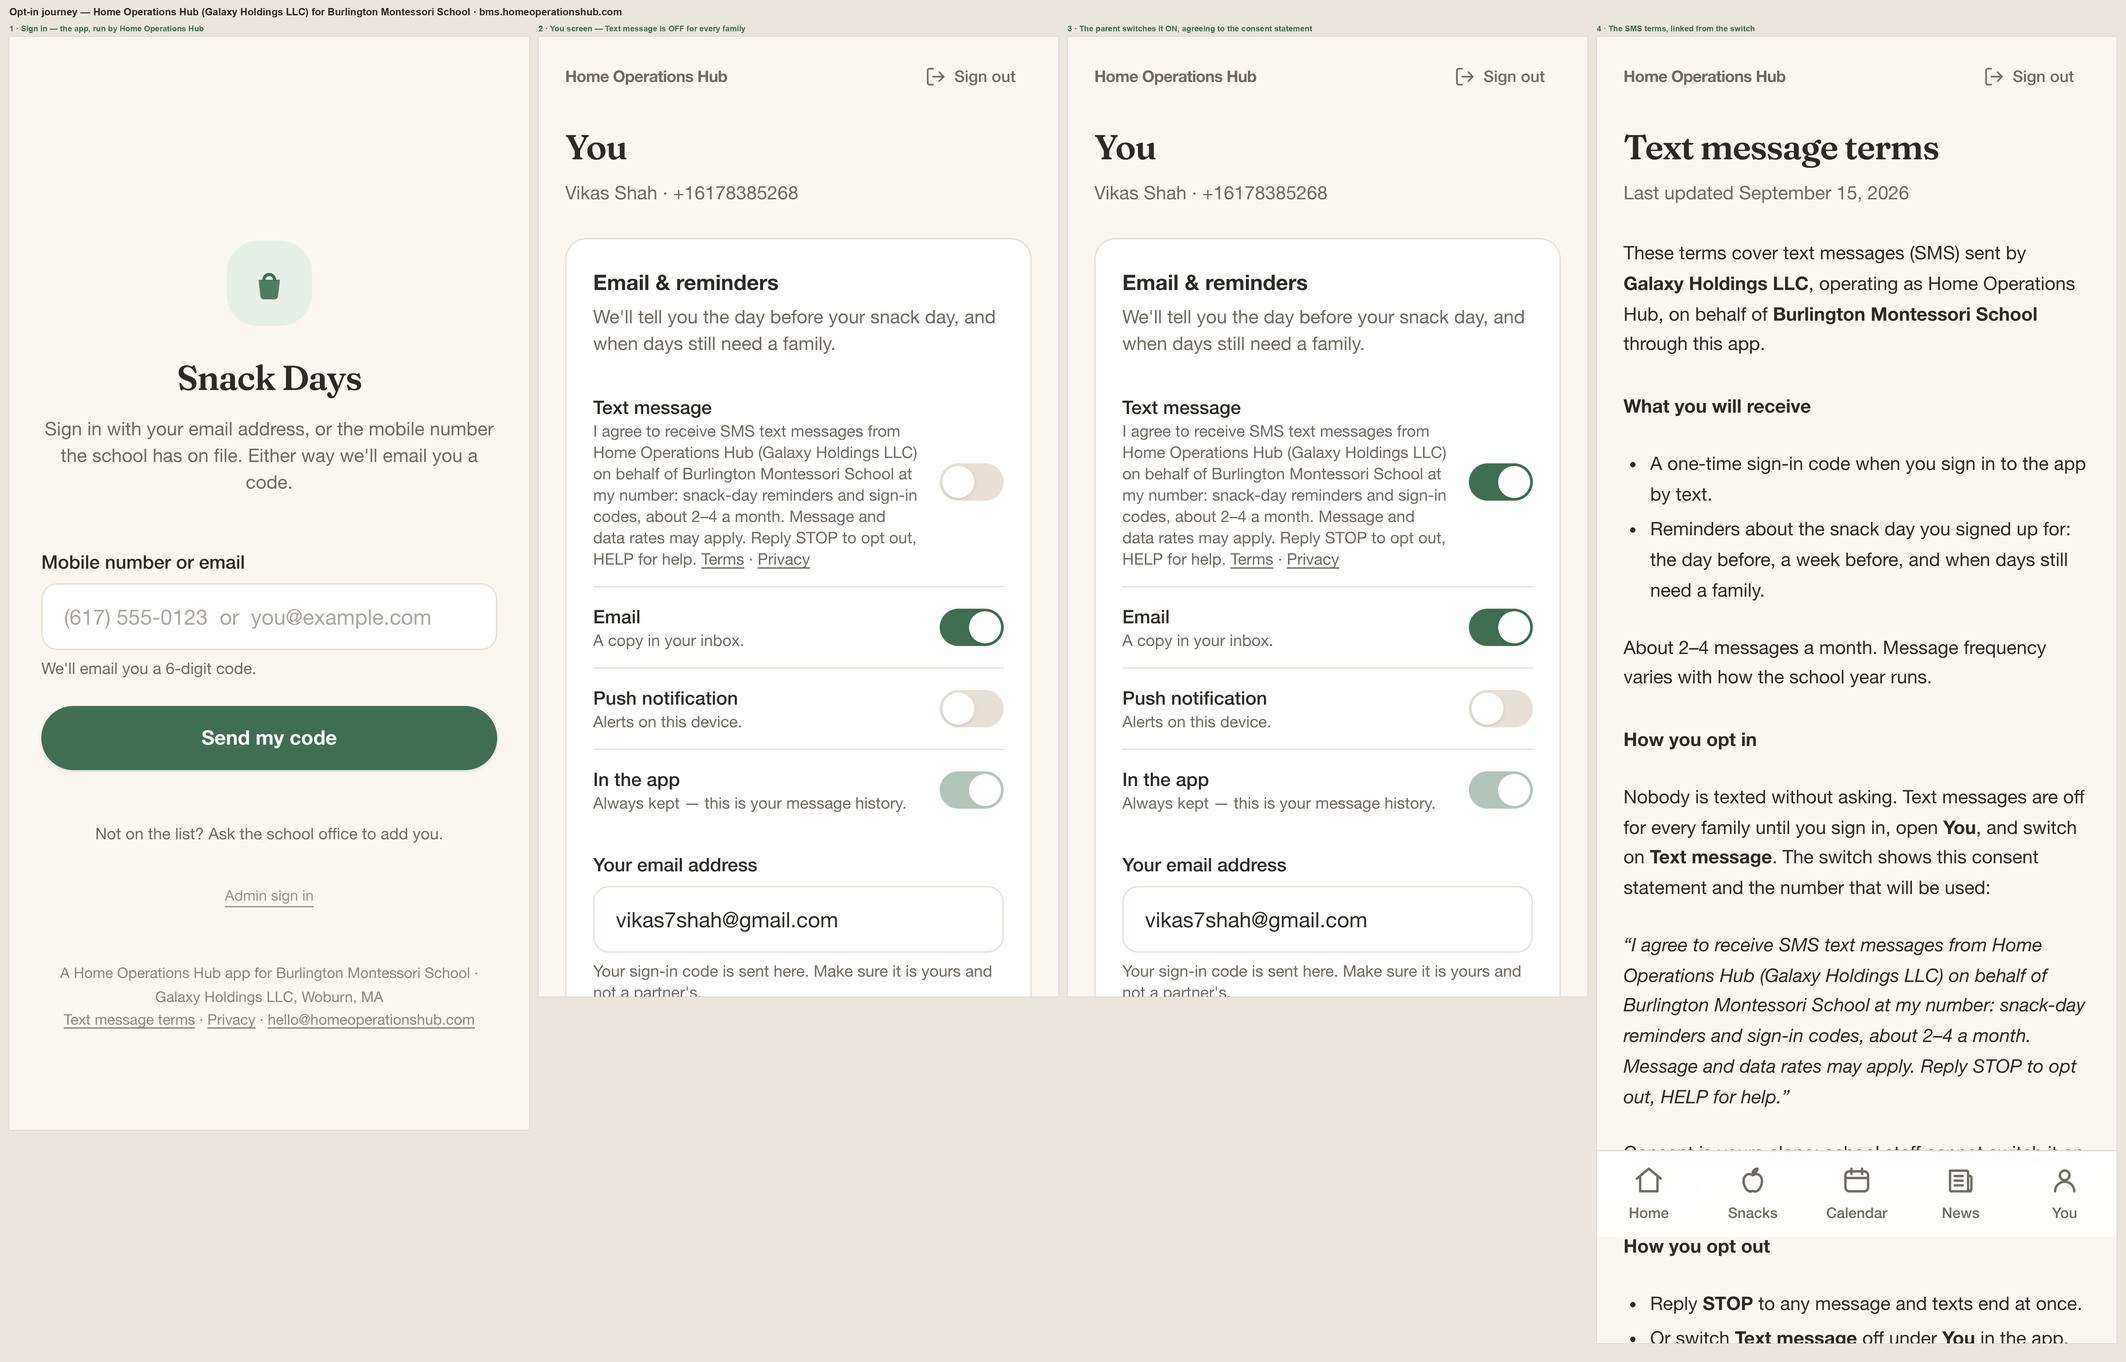
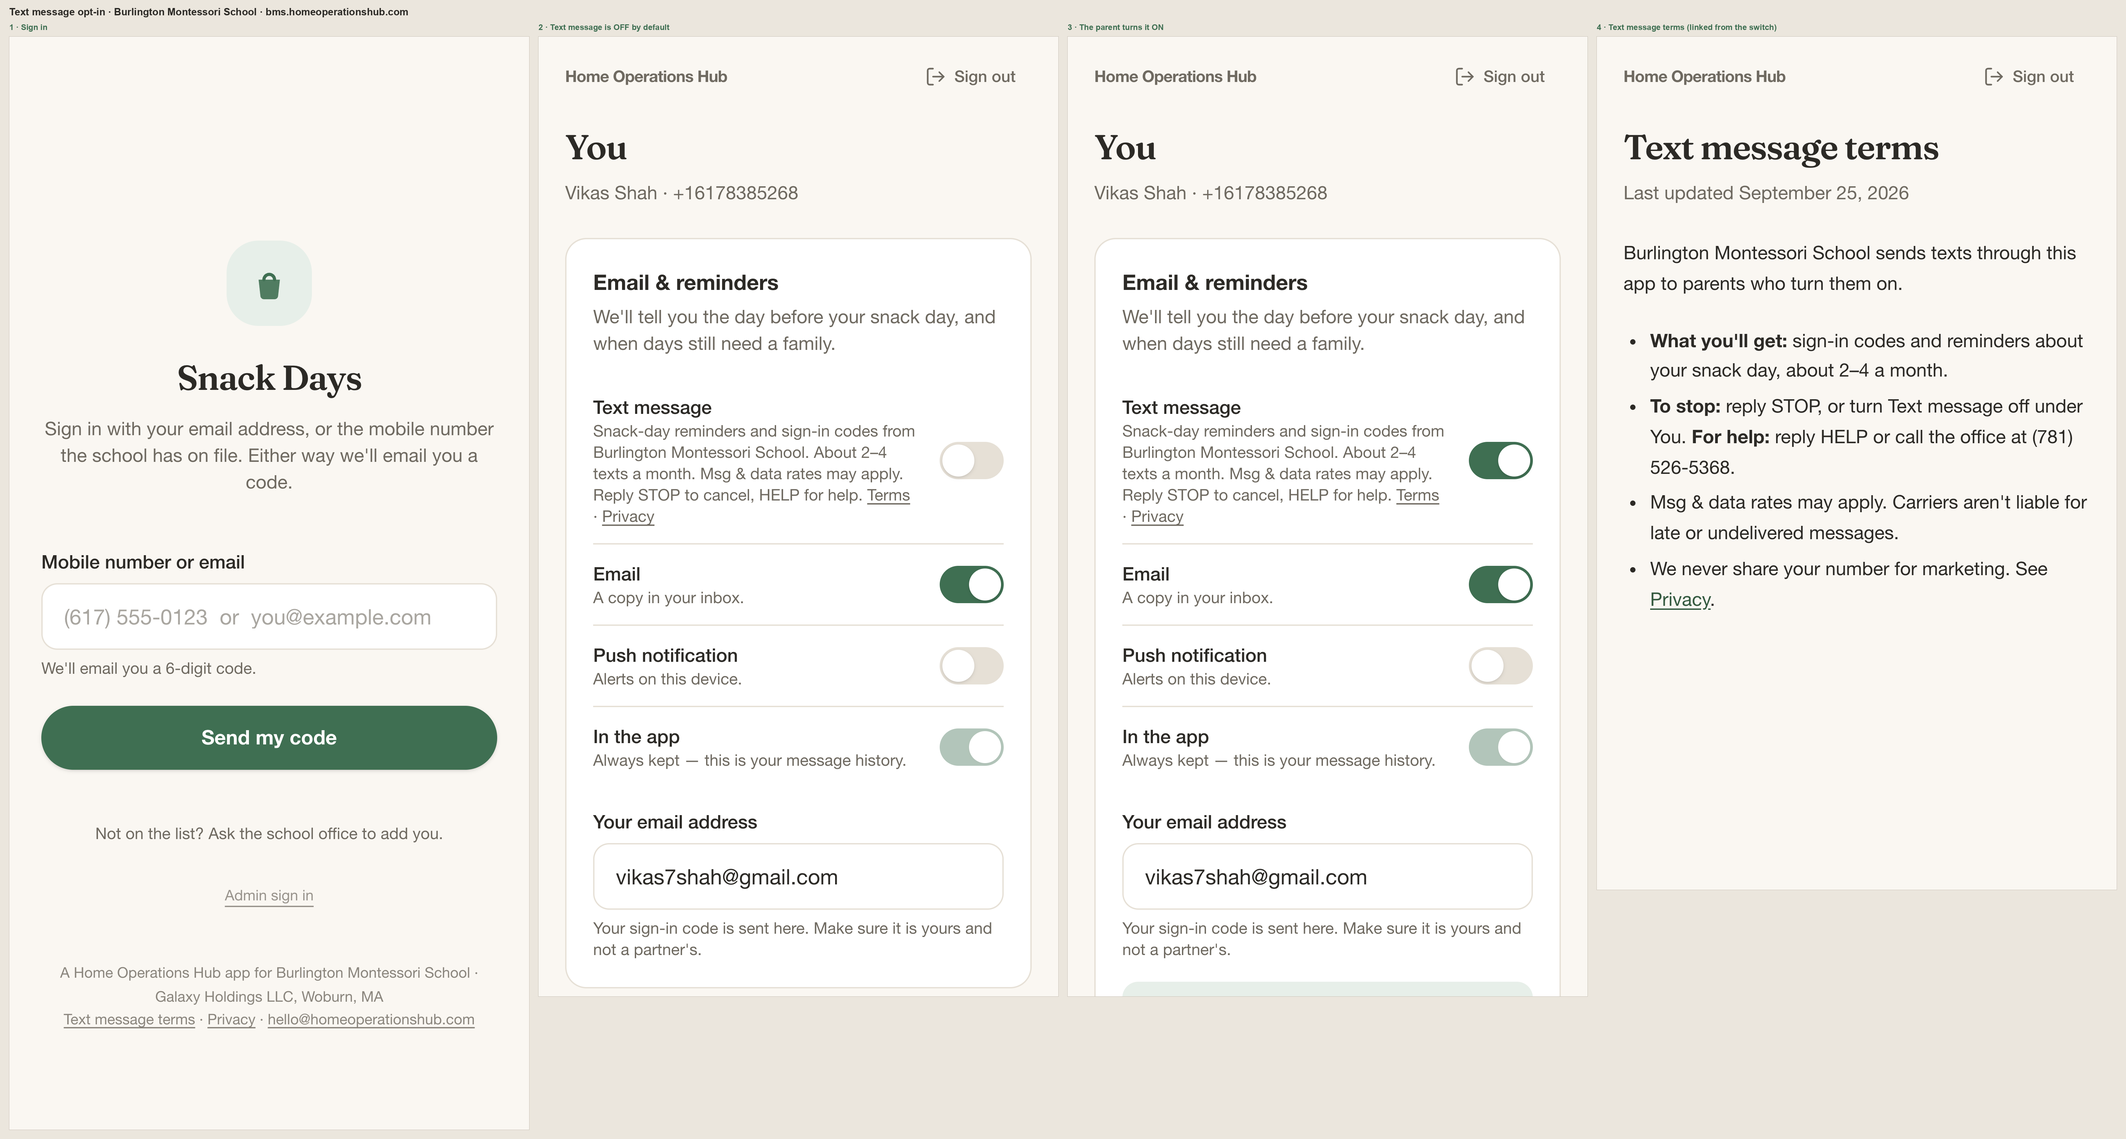
Short, plain SMS consent, terms and privacy

diff --git a/apps/web/app/privacy/page.tsx b/apps/web/app/privacy/page.tsx
@@ -2,62 +2,14 @@ import { LegalPage } from '@/components/legal-page';
 
 export default function PrivacyPage() {
   return (
-    <LegalPage title="Privacy policy" updated="September 15, 2026">
-      <p>
-        This app is run by <strong>Galaxy Holdings LLC</strong>, operating as Home Operations Hub, for
-        <strong> Burlington Montessori School</strong>. It exists to organise snack days and share school
-        news with the families of enrolled children. This policy says what we hold, why, and who sees it.
-      </p>
-
-      <h2>What we hold</h2>
+    <LegalPage title="Privacy" updated="September 25, 2026">
+      <p>This app is provided by Burlington Montessori School for its families.</p>
       <ul>
-        <li>Your name, the mobile number and email address the school holds for you, and which of your children is in which classroom — provided by the school office from its roster.</li>
-        <li>The snack days you sign up for, and the reminders and confirmations we sent you.</li>
-        <li>Your notification preferences: whether you want email, text messages, or push notifications.</li>
-        <li>Sign-in records: when you last signed in, and short-lived codes used to sign you in.</li>
+        <li><strong>What we keep:</strong> your name, the phone and email the school has for you, your children&apos;s classrooms, and the snack days you sign up for.</li>
+        <li><strong>What it&apos;s for:</strong> running the snack calendar and sending the reminders and codes you choose.</li>
+        <li>We don&apos;t sell or share your information, and we never share phone numbers or text consent with anyone for marketing.</li>
+        <li>Questions or corrections: ask the school office.</li>
       </ul>
-
-      <h2>What we use it for</h2>
-      <ul>
-        <li>Showing you the snack calendar and your family's days.</li>
-        <li>Sending sign-in codes and snack-day reminders by the channels you have switched on.</li>
-        <li>Showing the school office which days still need a family.</li>
-      </ul>
-      <p>Nothing else. We do not advertise, profile, or sell or share your information for marketing.</p>
-
-      <h2>Text messages</h2>
-      <p>
-        Text messages are off until you switch them on under <strong>You</strong>. When you do, your mobile number
-        is used only to send the messages described in the <a href="/sms-terms/">text message terms</a>. Mobile
-        information is never shared with third parties or affiliates for marketing or promotional purposes.
-        Reply STOP to opt out at any time.
-      </p>
-
-      <h2>Who can see it</h2>
-      <ul>
-        <li>You see your own family's details and days. Other families see the child's first name on days that are taken, not contact details.</li>
-        <li>School staff see the roster and the calendar for their school.</li>
-        <li>Service providers that carry the app and its messages — Amazon Web Services for hosting, email and text delivery — process data on our behalf and under our instructions.</li>
-      </ul>
-
-      <h2>How long we keep it</h2>
-      <p>
-        While your child is enrolled and you are on the school's roster. When the office removes a family from the
-        app, the account, its sign-in, and its bookings are deleted. Message history is kept for the school year.
-      </p>
-
-      <h2>Your choices</h2>
-      <ul>
-        <li>Change your email address and notification channels under <strong>You</strong>.</li>
-        <li>Ask the school office to correct your details or remove your family from the app.</li>
-        <li>Email us at <a href="mailto:hello@homeoperationshub.com">hello@homeoperationshub.com</a> with any question about your data.</li>
-      </ul>
-
-      <h2>Contact</h2>
-      <p>
-        Galaxy Holdings LLC · 1 Alan R Gerrish Dr, Unit 1, Woburn, MA 01801 ·{' '}
-        <a href="mailto:hello@homeoperationshub.com">hello@homeoperationshub.com</a>
-      </p>
     </LegalPage>
   );
 }

diff --git a/apps/web/app/sms-terms/page.tsx b/apps/web/app/sms-terms/page.tsx
@@ -2,57 +2,14 @@ import { LegalPage } from '@/components/legal-page';
 
 export default function SmsTermsPage() {
   return (
-    <LegalPage title="Text message terms" updated="September 15, 2026">
-      <p>
-        These terms cover text messages (SMS) sent by <strong>Galaxy Holdings LLC</strong>, operating as
-        Home Operations Hub, on behalf of <strong>Burlington Montessori School</strong> through this app.
-      </p>
-
-      <h2>What you will receive</h2>
+    <LegalPage title="Text message terms" updated="September 25, 2026">
+      <p>Burlington Montessori School sends texts through this app to parents who turn them on.</p>
       <ul>
-        <li>A one-time sign-in code when you sign in to the app by text.</li>
-        <li>Reminders about the snack day you signed up for: the day before, a week before, and when days still need a family.</li>
+        <li><strong>What you&apos;ll get:</strong> sign-in codes and reminders about your snack day, about 2–4 a month.</li>
+        <li><strong>To stop:</strong> reply STOP, or turn Text message off under You. <strong>For help:</strong> reply HELP or call the office at (781) 526-5368.</li>
+        <li>Msg &amp; data rates may apply. Carriers aren&apos;t liable for late or undelivered messages.</li>
+        <li>We never share your number for marketing. See <a href="/privacy/">Privacy</a>.</li>
       </ul>
-      <p>About 2–4 messages a month. Message frequency varies with how the school year runs.</p>
-
-      <h2>How you opt in</h2>
-      <p>
-        Nobody is texted without asking. Text messages are off for every family until you sign in,
-        open <strong>You</strong>, and switch on <strong>Text message</strong>. The switch shows this consent
-        statement and the number that will be used:
-      </p>
-      <p>
-        <em>“I agree to receive SMS text messages from Home Operations Hub (Galaxy Holdings LLC) on behalf of
-        Burlington Montessori School at my number: snack-day reminders and sign-in codes, about 2–4 a month.
-        Message and data rates may apply. Reply STOP to opt out, HELP for help.”</em>
-      </p>
-      <p>Consent is yours alone; school staff cannot switch it on for you.</p>
-
-      <h2>How you opt out</h2>
-      <ul>
-        <li>Reply <strong>STOP</strong> to any message and texts end at once.</li>
-        <li>Or switch <strong>Text message</strong> off under <strong>You</strong> in the app.</li>
-      </ul>
-      <p>Reply <strong>HELP</strong> to any message for help, or email <a href="mailto:hello@homeoperationshub.com">hello@homeoperationshub.com</a>.</p>
-
-      <h2>Cost</h2>
-      <p>
-        Messages are free from us. <strong>Message and data rates may apply</strong> according to your mobile plan.
-        Carriers are not liable for delayed or undelivered messages.
-      </p>
-
-      <h2>Your number</h2>
-      <p>
-        We text the number the school holds for you, shown on the <strong>You</strong> screen. Your number is used only
-        to deliver these messages and is never sold or shared for marketing. See the{' '}
-        <a href="/privacy/">privacy policy</a>.
-      </p>
-
-      <h2>Contact</h2>
-      <p>
-        Galaxy Holdings LLC · 1 Alan R Gerrish Dr, Unit 1, Woburn, MA 01801 ·{' '}
-        <a href="mailto:hello@homeoperationshub.com">hello@homeoperationshub.com</a>
-      </p>
     </LegalPage>
   );
 }

diff --git a/apps/web/app/me/page.tsx b/apps/web/app/me/page.tsx
@@ -15,9 +15,8 @@ const CHANNEL_COPY: Record<Channel, { label: string; hint: string }> = {
     // This wording is the consent the carrier registration describes.
     // Carrier-reviewed consent wording: names SMS, what the texts are, and
     // how often. Change it and the toll-free registration must be updated.
-    hint: 'I agree to receive SMS text messages from Home Operations Hub (Galaxy Holdings LLC) on behalf of '
-      + 'Burlington Montessori School at my number: snack-day reminders and sign-in codes, about 2–4 a month. '
-      + 'Message and data rates may apply. Reply STOP to opt out, HELP for help.',
+    hint: 'Snack-day reminders and sign-in codes from Burlington Montessori School. About 2–4 texts a month. '
+      + 'Msg & data rates may apply. Reply STOP to cancel, HELP for help.',
   },
   email: { label: 'Email', hint: 'A copy in your inbox.' },
   push: { label: 'Push notification', hint: 'Alerts on this device.' },
